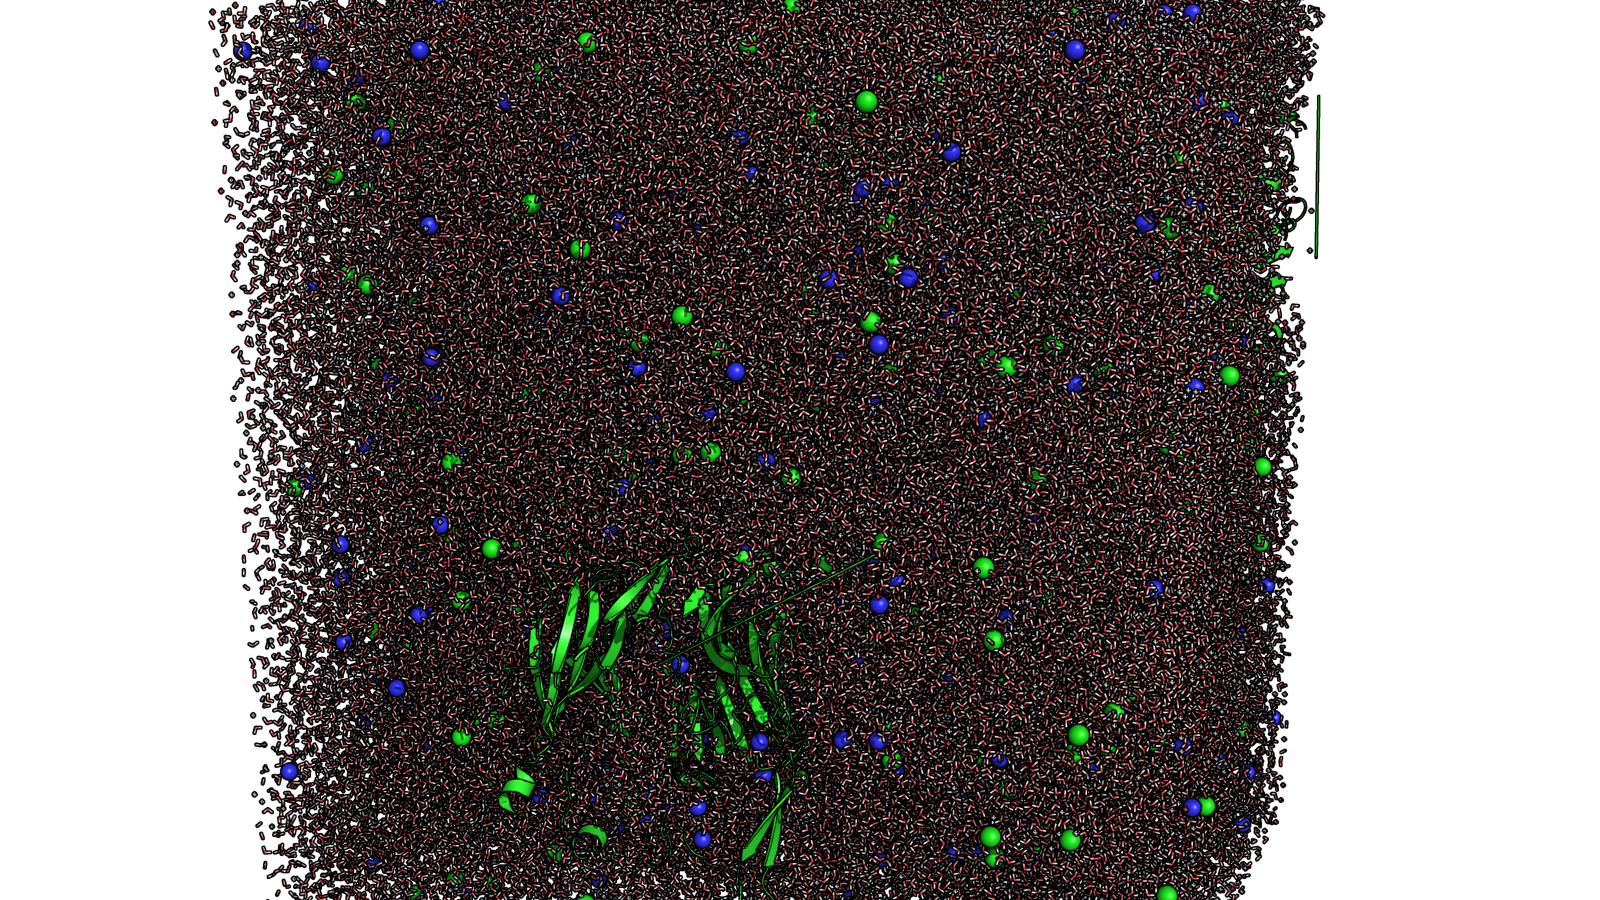
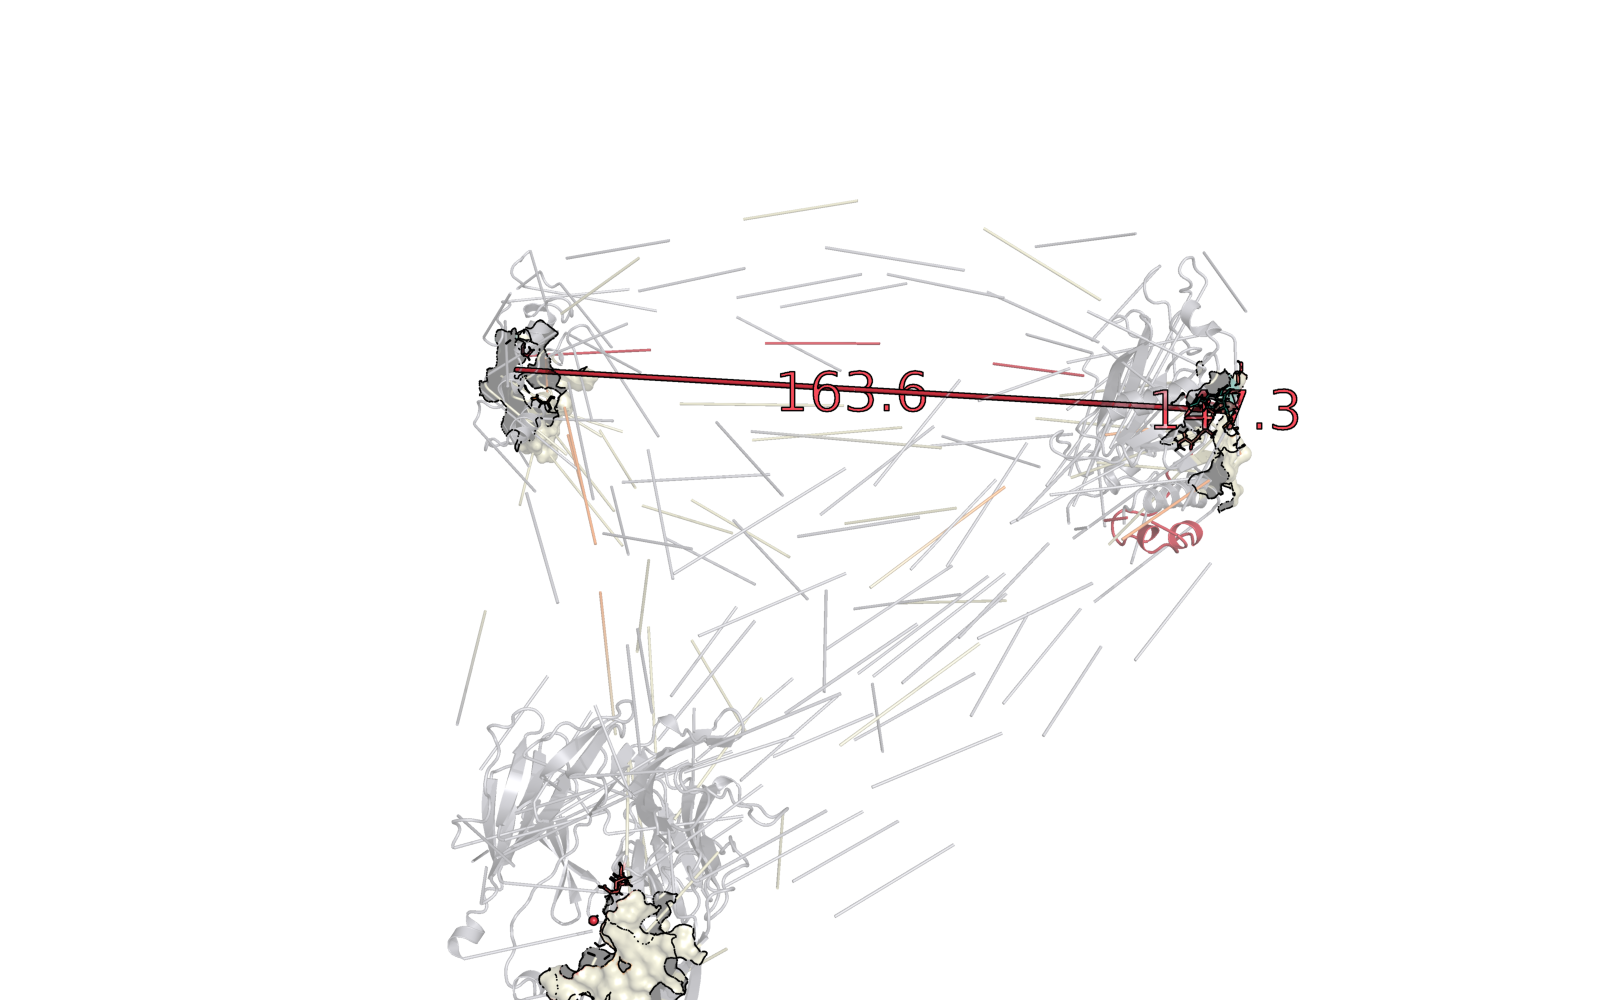
update figures

diff --git a/workspace/scripts/pymol_render.py b/workspace/scripts/pymol_render.py
@@ -1,5 +1,5 @@
 #!/usr/bin/env python3
-"""PyMOL rendering: D-Ala2 vs L-Ala2 catalytic geometry at DPP-IV active site."""
+"""PyMOL: D-Ala2 vs L-Ala2 at DPP-IV active site — clean, no solvent."""
 import sys, os
 os.chdir("/home/scroll/personal/cjc-1295/workspace/step3")
 sys.path.insert(0, "/home/scroll/miniforge3/lib/python3.13/site-packages")
@@ -15,100 +15,121 @@ cmd.set("antialias", 2)
 cmd.set("cartoon_fancy_helices", 1)
 cmd.set("depth_cue", 0)
 cmd.set("ray_opaque_background", 0)
+cmd.set("cartoon_loop_radius", 0.3)
+cmd.set("cartoon_oval_length", 1.8)
+cmd.set("cartoon_rect_length", 1.8)
 
 # Custom colors
-cmd.set_color("dppiv_grey",  [0.72, 0.72, 0.75])
-cmd.set_color("catalytic_c", [0.90, 0.45, 0.20])
-cmd.set_color("oxyanion_c",  [0.18, 0.65, 0.55])
-cmd.set_color("d_ala_c",     [0.90, 0.25, 0.30])
-cmd.set_color("l_ala_c",     [0.28, 0.47, 0.62])
+cmd.set_color("dppiv_grey",  [0.68, 0.68, 0.72])
+cmd.set_color("catalytic_c", [1.00, 0.50, 0.20])
+cmd.set_color("oxyanion_c",  [0.15, 0.65, 0.55])
+cmd.set_color("d_ala_c",     [0.90, 0.22, 0.28])
+cmd.set_color("l_ala_c",     [0.22, 0.45, 0.62])
 cmd.set_color("anchor_c",    [0.85, 0.30, 0.30])
+cmd.set_color("pocket_c",    [0.90, 0.88, 0.70])
 
-# ── Load structures ──
-cmd.load("frame_DALA_100ns.pdb", "DALA")
-cmd.load("frame_LALA_25ns.pdb",  "LALA")
+# ── Load structures (merged topology: DPP-IV=resi 39-766, GHRH=resi 1-29) ──
+cmd.load("frame_DALA_clean.pdb", "DALA")
+cmd.load("frame_LALA_clean.pdb",  "LALA")
 
-# Load starting structure as a 3rd reference
-# cmd.load("frame_start.pdb", "start")
+# ── Selection helpers ──
+DPPIV_SEL = "resi 39-766"
+GHRH_SEL  = "resi 1-29"
+CATALYTIC = "resi 630+708+740"
+OXYANION  = "resi 547+631"
+ANCHOR    = "resi 205+206"
+ALA2_CB   = "resi 2 and name CB"
+SER630_OG = "resi 630 and name OG"
+ALA2_C    = "resi 2 and name C"
+ALA2_N    = "resi 2 and name N"
 
-# ─────────────────────────────────────────────────────────
-def setup_scene(obj_name, peptide_color, label_text):
-    """Apply common styling to the complex."""
+def setup_scene(obj, pep_color):
     cmd.disable("all")
-    cmd.enable(obj_name)
+    cmd.enable(obj)
 
-    # DPP-IV: light cartoon
-    cmd.show("cartoon", f"{obj_name} and chain A")
-    cmd.color("dppiv_grey", f"{obj_name} and chain A")
-    cmd.set("cartoon_transparency", 0.60, f"{obj_name} and chain A")
+    # ── DPP-IV cartoon ──
+    cmd.show("cartoon", f"{obj} and {DPPIV_SEL}")
+    cmd.color("dppiv_grey", f"{obj} and {DPPIV_SEL}")
+    cmd.set("cartoon_transparency", 0.50, f"{obj}")
 
-    # Catalytic triad Ser630, Asp708, His740
-    cmd.show("sticks", f"{obj_name} and chain A and resi 630+708+740")
-    cmd.color("catalytic_c", f"{obj_name} and chain A and resi 630+708+740")
+    # ── Active site pocket surface (transparent) ──
+    cmd.select("pocket_sel", f"{obj} and {DPPIV_SEL} and byres ({CATALYTIC} around 8)")
+    cmd.show("surface", "pocket_sel")
+    cmd.color("pocket_c", "pocket_sel")
+    cmd.set("surface_quality", 1)
+    cmd.set("transparency", 0.55, "pocket_sel")
 
-    # Oxyanion hole: Tyr547, Ser631
-    cmd.show("sticks", f"{obj_name} and chain A and resi 547+631")
-    cmd.color("oxyanion_c", f"{obj_name} and chain A and resi 547+631")
+    # ── Catalytic triad (Ser630, Asp708, His740): orange sticks ──
+    cmd.show("sticks", f"{obj} and {CATALYTIC}")
+    cmd.color("catalytic_c", f"{obj} and {CATALYTIC}")
+    cmd.set("stick_radius", 0.22, f"{obj} and {CATALYTIC}")
 
-    # Glu205/206 anchor
-    cmd.show("sticks", f"{obj_name} and chain A and resi 205+206")
-    cmd.color("anchor_c", f"{obj_name} and chain A and resi 205+206")
+    # ── Oxyanion hole (Tyr547, Ser631): teal sticks ──
+    cmd.show("sticks", f"{obj} and {OXYANION}")
+    cmd.color("oxyanion_c", f"{obj} and {OXYANION}")
 
-    # GHRH N-terminal peptide (resi 1-5): thick sticks
-    cmd.show("sticks", f"{obj_name} and chain B and resi 1-5")
-    cmd.color(peptide_color, f"{obj_name} and chain B and resi 1-5")
-    cmd.set("stick_radius", 0.25, f"{obj_name} and chain B")
+    # ── Glu205/206 anchor: red sticks ──
+    cmd.show("sticks", f"{obj} and {ANCHOR}")
+    cmd.color("anchor_c", f"{obj} and {ANCHOR}")
 
-    # Highlight Ala2 CB (sidechain)
-    cmd.show("spheres", f"{obj_name} and chain B and resi 2 and name CB")
-    cmd.color(peptide_color, f"{obj_name} and chain B and resi 2 and name CB")
-    cmd.set("sphere_scale", 0.45, f"{obj_name} and chain B and resi 2 and name CB")
+    # ── GHRH N-terminus (resi 1-5): thick sticks ──
+    cmd.show("sticks", f"{obj} and {GHRH_SEL} and resi 1-5")
+    cmd.color(pep_color, f"{obj} and {GHRH_SEL} and resi 1-5")
+    cmd.set("stick_radius", 0.28, f"{obj} and {GHRH_SEL}")
 
-    # Distance: Ser630 OG → Ala2 C
-    cmd.distance(f"{obj_name}_dist",
-                 f"{obj_name} and chain A and resi 630 and name OG",
-                 f"{obj_name} and chain B and resi 2 and name C")
-    cmd.color(peptide_color, f"{obj_name}_dist")
-    cmd.set("dash_length", 0.15, f"{obj_name}_dist")
-    cmd.set("dash_gap", 0.10, f"{obj_name}_dist")
+    # ── GHRH rest (resi 6-29): thin cartoon ──
+    cmd.show("cartoon", f"{obj} and {GHRH_SEL} and resi 6-29")
+    cmd.color(pep_color, f"{obj} and {GHRH_SEL} and resi 6-29")
+    cmd.set("cartoon_transparency", 0.30, f"{obj} and {GHRH_SEL}")
 
-    # Angle: OG – C – N
-    cmd.angle(f"{obj_name}_ang",
-              f"{obj_name} and chain A and resi 630 and name OG",
-              f"{obj_name} and chain B and resi 2 and name C",
-              f"{obj_name} and chain B and resi 2 and name N")
-    cmd.color(peptide_color, f"{obj_name}_ang")
+    # ── Ala2 CB sphere ──
+    cmd.show("spheres", f"{obj} and {ALA2_CB}")
+    cmd.color(pep_color, f"{obj} and {ALA2_CB}")
+    cmd.set("sphere_scale", 0.50, f"{obj} and {ALA2_CB}")
 
-    # Labels
-    cmd.set("label_size", 24)
+    # ── Distance: Ser630 OG → Ala2 C ──
+    cmd.distance(f"{obj}_d", f"{obj} and {SER630_OG}", f"{obj} and {ALA2_C}")
+    cmd.color(pep_color, f"{obj}_d")
+    cmd.set("dash_length", 0.12, f"{obj}_d")
+    cmd.set("dash_gap", 0.08, f"{obj}_d")
+    cmd.set("dash_radius", 0.08, f"{obj}_d")
+
+    # ── Angle: OG – C – N ──
+    cmd.angle(f"{obj}_a", f"{obj} and {SER630_OG}",
+              f"{obj} and {ALA2_C}", f"{obj} and {ALA2_N}")
+    cmd.color(pep_color, f"{obj}_a")
+
+    # ── Labels ──
+    cmd.set("label_size", 26)
     cmd.set("label_font_id", 5)
     cmd.set("label_outline_color", "white")
+    cmd.set("label_color", pep_color)
 
-    # Zoom on active site
-    cmd.zoom(f"{obj_name} and chain A and resi 630", 10)
+    # ── Zoom on active site ──
+    cmd.zoom(f"{obj} and {CATALYTIC}", 13)
 
-    # Title label
-    cmd.pseudoatom(f"{obj_name}_title", pos=[0, 0, 0])
-    # Will be positioned after zoom
+    # ── Clean up temporary selection ──
+    cmd.delete("pocket_sel")
 
 
-# ── Render D-Ala2 panel ──
-setup_scene("DALA", "d_ala_c", "D-Ala2 (CJC-1295)")
-# Reposition
-cmd.turn("y", -20)
-cmd.turn("x", 15)
-cmd.move("z", 2)
-cmd.ray(1600, 900)
-cmd.png("panel_DALA.png", width=1600, height=900, dpi=300)
-print("Panel DALA rendered")
+# ── Render D-Ala2 ──
+setup_scene("DALA", "d_ala_c")
+cmd.turn("y", -25)
+cmd.turn("x", 10)
+cmd.move("z", 3)
+cmd.move("y", -1)
+cmd.ray(1600, 1000)
+cmd.png("panel_DALA.png", width=1600, height=1000, dpi=300)
+print("Panel DALA done")
 
-# ── Render L-Ala2 panel ──
-setup_scene("LALA", "l_ala_c", "L-Ala2 (native GHRH)")
-cmd.turn("y", -20)
-cmd.turn("x", 15)
-cmd.move("z", 2)
-cmd.ray(1600, 900)
-cmd.png("panel_LALA.png", width=1600, height=900, dpi=300)
-print("Panel LALA rendered")
+# ── Render L-Ala2 ──
+setup_scene("LALA", "l_ala_c")
+cmd.turn("y", -25)
+cmd.turn("x", 10)
+cmd.move("z", 3)
+cmd.move("y", -1)
+cmd.ray(1600, 1000)
+cmd.png("panel_LALA.png", width=1600, height=1000, dpi=300)
+print("Panel LALA done")
 
-print("Done — panel_DALA.png and panel_LALA.png")
+print("Done.")
